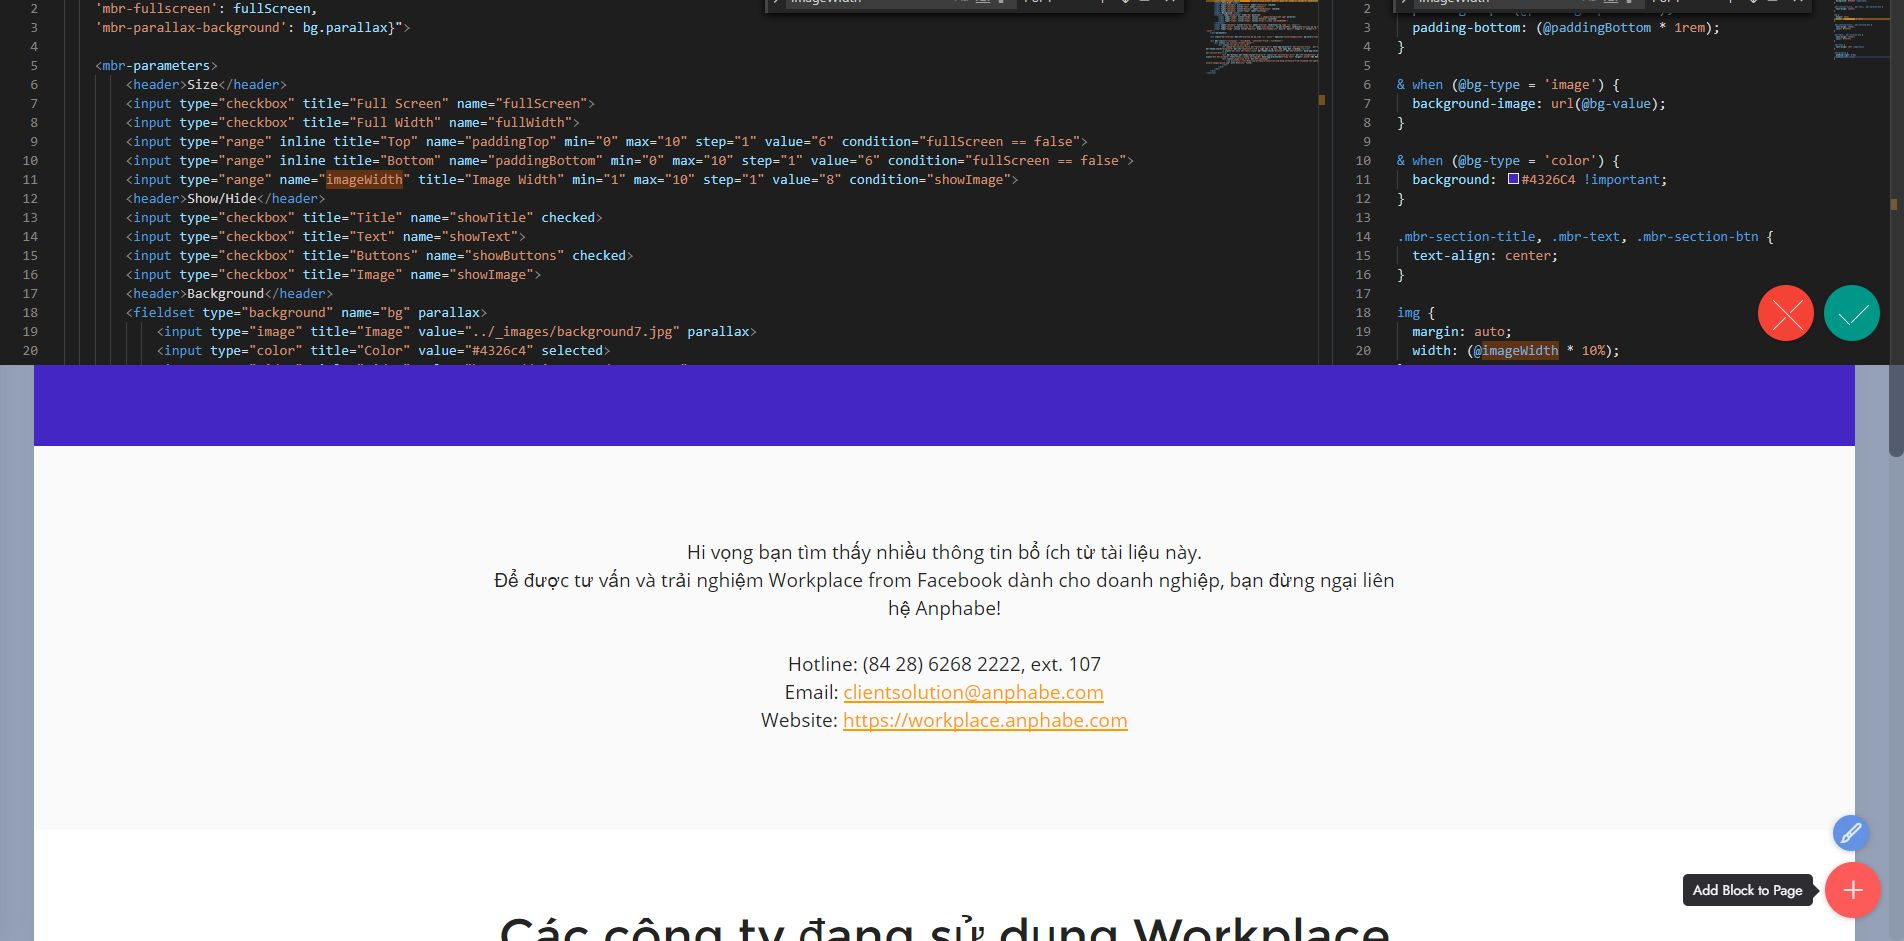
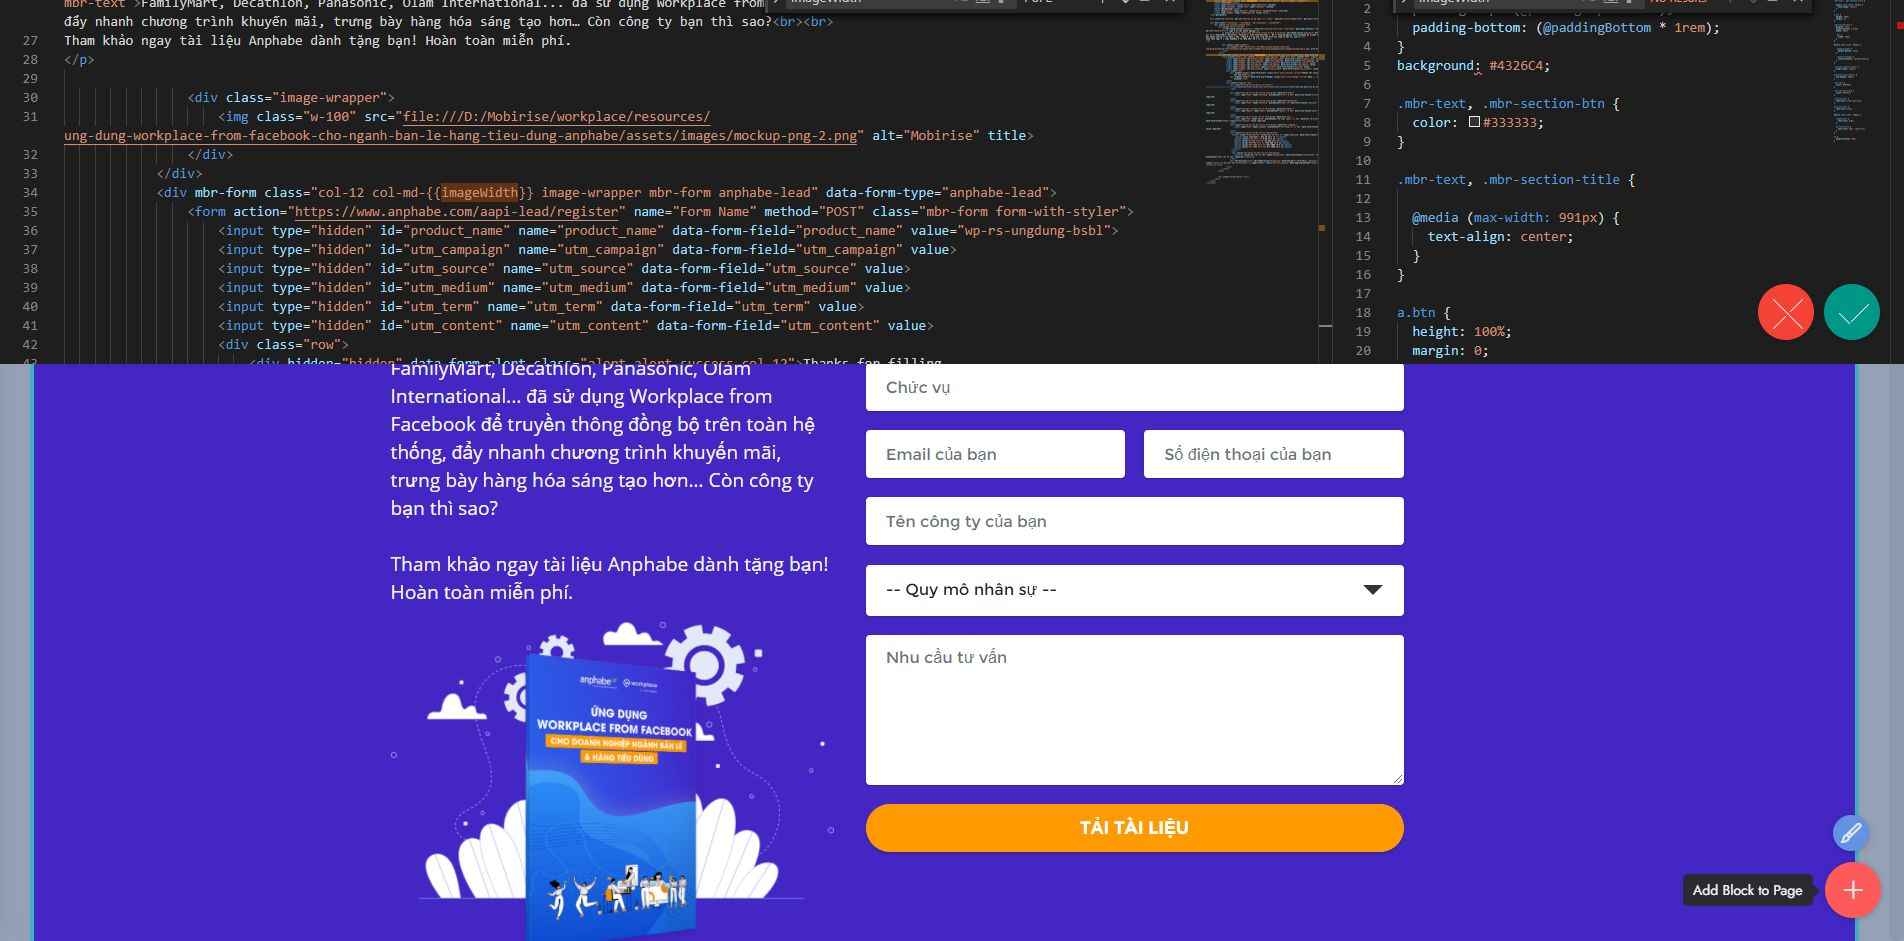
update

diff --git a/resources/ung-dung-workplace-from-facebook-cho-nganh-ban-le-hang-tieu-dung-anphabe/index.html b/resources/ung-dung-workplace-from-facebook-cho-nganh-ban-le-hang-tieu-dung-anphabe/index.html
@@ -91,7 +91,7 @@ height="0" width="0" style="display:none;visibility:hidden"></iframe></noscript>
         <div class="row justify-content-top">
             <div class="col-12 col-md">
                 <h1 class="mbr-section-title mb-7 form-title display-2">Tài liệu dành cho doanh nghiệp</h1>
-                <p class="mbr-text align-left mbr-fonts-style d-none d-lg-block display-7">FamilyMart, Decathlon, Panasonic, Olam International... đã sử dụng Workplace from Facebook để phát triển sản phẩm mới, đẩy nhanh chương trình khuyến mãi, trưng bày hàng hóa sáng tạo hơn, truyền thông đồng bộ trên toàn hệ thống… Còn công ty bạn thì sao?<br><br>
+                <p class="mbr-text align-left mbr-fonts-style d-none d-lg-block display-7">FamilyMart, Decathlon, Panasonic, ... đã sử dụng Workplace from Facebook để truyền thông đồng bộ trên toàn hệ thống, đẩy nhanh chương trình khuyến mãi, trưng bày hàng hóa sáng tạo hơn… Còn công ty bạn thì sao?<br><br>
 Tham khảo ngay tài liệu Anphabe dành tặng bạn! Hoàn toàn miễn phí. 
 </p>
                 
@@ -114,8 +114,7 @@ Tham khảo ngay tài liệu Anphabe dành tặng bạn! Hoàn toàn miễn phí
                     </div>
                     <div class="dragArea row">
                         <div class="col-lg-12 col-md-12 col-sm-12">
-                            <h2 class="mbr-section-title mb-3 form-title display-2">Một bước đơn giản, nhận tài liệu ngay!</h2>
-                            <p class="mbr-text align-left mbr-fonts-style display-7">Hoàn tất mẫu thông tin dưới đây để tải tài liệu, bạn nhé!&nbsp;&nbsp;<br></p> 
+                            <p class="mbr-text align-left mbr-fonts-style display-7">Hoàn tất mẫu dưới đây để tải tài liệu!</p>
                         </div>
                         
                         <div class="col-lg-12 col-md col-12 form-group" data-for="name">
@@ -146,7 +145,7 @@ Tham khảo ngay tài liệu Anphabe dành tặng bạn! Hoàn toàn miễn phí
                           <div class="col-lg-12 col-md col-12 form-group">
                             <textarea title="Nhu cầu tư vấn" name="nhucautuvan" data-form-field="nhucautuvan" class="form-control" placeholder="Nhu cầu tư vấn" required="" id="nhucautuvan-dangky"></textarea>
                         </div>
-                        <div class="col-12 col-md-auto mbr-section-btn"><button type="submit" class="btn btn-primary display-4"><strong>GỬI THÔNG TIN&nbsp;<br></strong></button></div>
+                        <div class="col-12 col-md-auto mbr-section-btn"><button type="submit" class="btn btn-primary display-4"><strong>TẢI TÀI LIỆU<br></strong></button></div>
                     </div>
                 </form>
             </div>
@@ -220,9 +219,10 @@ Tham khảo ngay tài liệu Anphabe dành tặng bạn! Hoàn toàn miễn phí
         <div class="row justify-content-center">
             <div class="col-md-12 col-lg-10">
                
-                <p class="mbr-text align-center mbr-fonts-style my-4 display-5">𝐀𝐧𝐩𝐡𝐚𝐛𝐞 hiện là đối tác chính thức của Workplace from Facebook tại Việt Nam. Chúng tôi sẵn sàng đồng hành cùng bạn để tiếp cận và triển khai Workplace from Facebook theo quy trình thực tiễn và hiệu quả. Liên hệ Anphabe ngay để được tư vấn!&nbsp;&nbsp;<br></p>
-                <p class="mbr-text align-center mbr-fonts-style my-4 display-5">
-<br>Hotline: (84 28) 6268 2222, ext. 107
+                <p class="mbr-text align-center mbr-fonts-style my-4 display-7">Anphabe hiện là đối tác chính thức của Workplace from Facebook tại Việt Nam. Chúng tôi sẵn sàng đồng hành cùng bạn để tiếp cận và triển khai Workplace from Facebook theo quy trình thực tiễn và hiệu quả.</p>
+                <p class="mbr-text align-center mbr-fonts-style my-4 display-7">Liên hệ Anphabe ngay để được tư vấn!<br>
+                
+Hotline: (84 28) 6268 2222, ext. 107
 <br>Email: <a href="mailto:clientsolution@anphabe.com" class="text-primary">clientsolution@anphabe.com</a>
 <br>Website: <a href="https://workplace.anphabe.com" class="text-primary">https://workplace.anphabe.com</a></p>
                 
